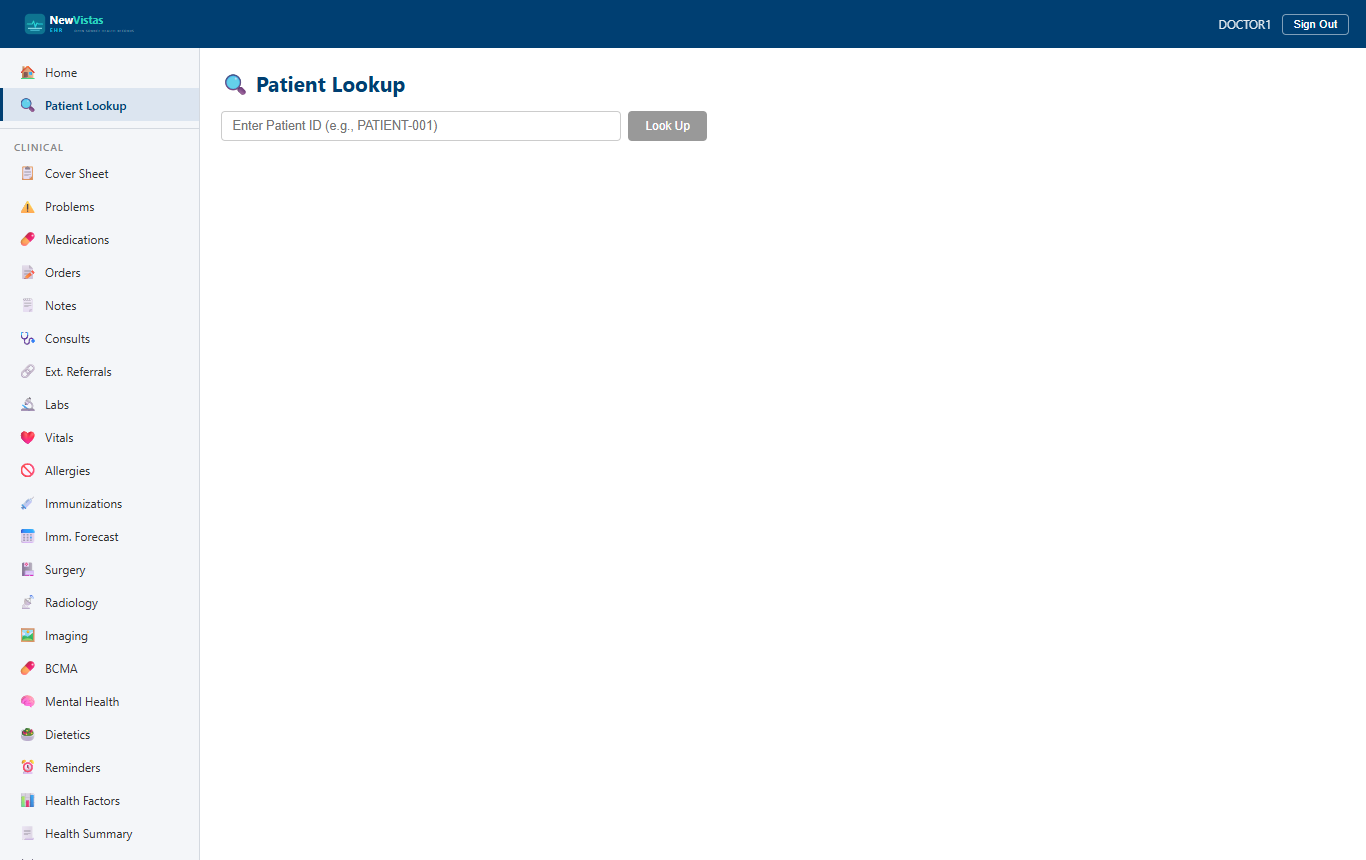
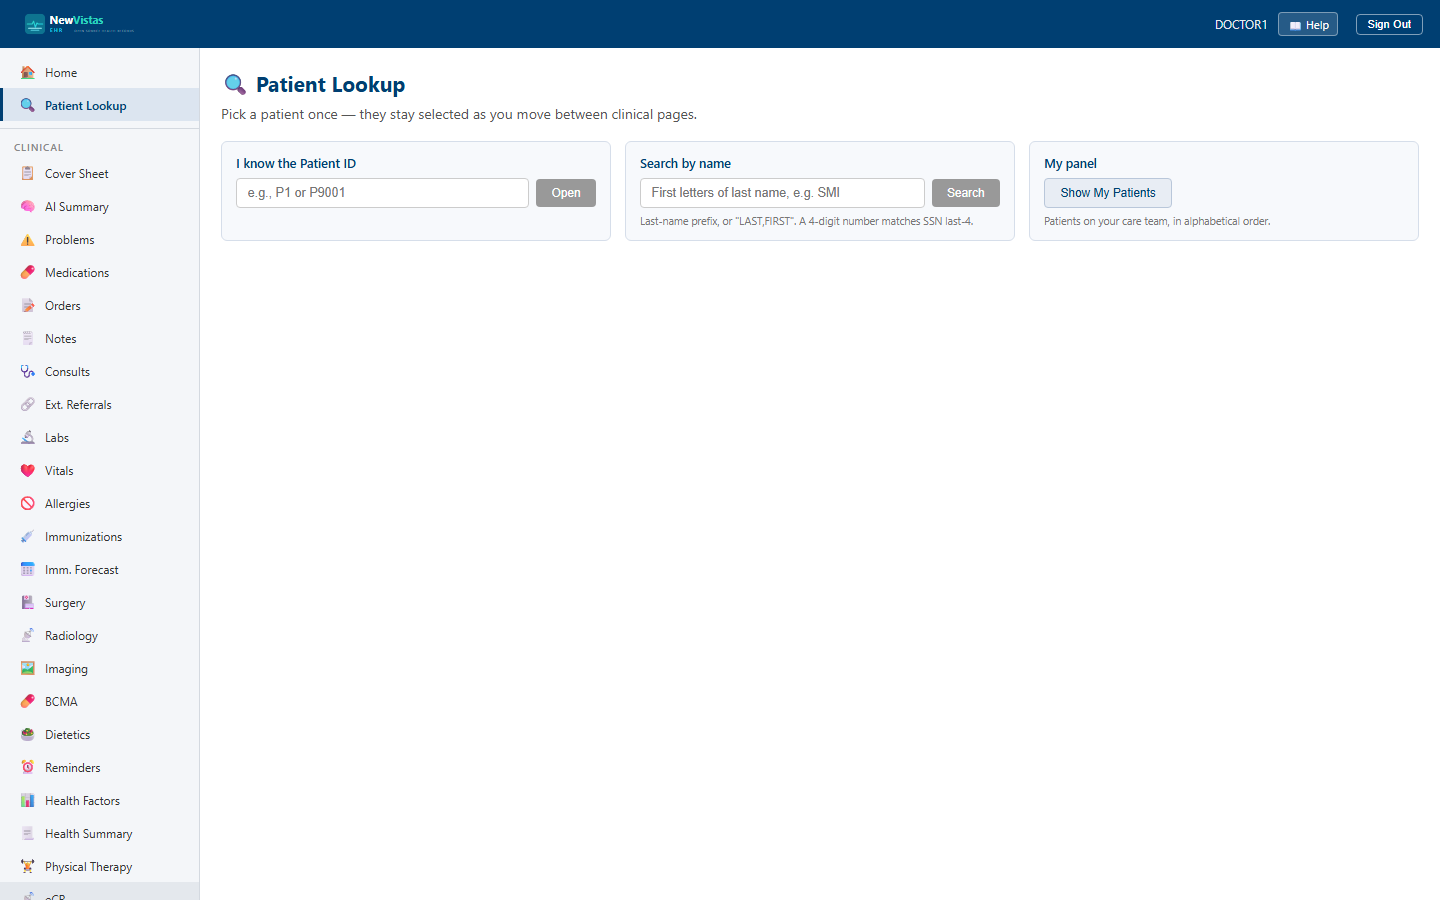
docs(manual): refresh all screenshots to the current UI + fix pharmacy-pos Help route
Recaptured 27 user-manual screenshots against the running app (Playwright, one
authenticated Blazor circuit per role navigating via the SPA router, demo patient
P9001) so the manual reflects the current canonical UI — the app header with the new
Help link, the PatientBar, the role-scoped sidebar, and richly populated clinical
pages. Covers all four roles (doctor / nurse / pharmacist / admin): login, home,
patient-lookup, and each role's topic pages. The two safety-gate modal shots
(lethal / warn) are unchanged — they need a triggered dangerous order to capture.

Also fixes a ManualHelp route: the POS-claims page is /pharmacy-pos (not "pharmacypos"),
so the pharmacist Help link now deep-links it correctly. +1 test (12 total).

Changed region(s): [[0.0, 0.0, 1.0, 1.0]]

diff --git a/NewVistas.BlazorWeb-Tests/ManualHelpTests.cs b/NewVistas.BlazorWeb-Tests/ManualHelpTests.cs
@@ -30,6 +30,7 @@ public class ManualHelpTests
     [TestCase("nurse", "vitals", "/manual/nurse/vital-signs.html")]
     [TestCase("nurse", "bcma", "/manual/nurse/bcma.html")]
     [TestCase("pharmacist", "drug-utilization-review", "/manual/pharmacist/drug-utilization-review.html")]
+    [TestCase("pharmacist", "pharmacy-pos", "/manual/pharmacist/pos-claims.html")]
     [TestCase("admin", "security-keys", "/manual/admin/security-keys.html")]
     [TestCase("bogus", "xyz-unmapped", "/manual/doctor/index.html")] // unknown section → doctor + fallback
     public void UrlForRoute_DeepLinksTopicOrFallsBack(string section, string route, string expected)

diff --git a/NewVistas.BlazorWeb/Services/ManualHelp.cs b/NewVistas.BlazorWeb/Services/ManualHelp.cs
@@ -69,7 +69,7 @@ public static class ManualHelp
             ["inpatientpharmacy"] = "verify-fill.html",
             ["drug-utilization-review"] = "drug-utilization-review.html",
             ["epcs"] = "epcs.html",
-            ["pharmacypos"] = "pos-claims.html",
+            ["pharmacy-pos"] = "pos-claims.html",
         },
         ["admin"] = new()
         {
